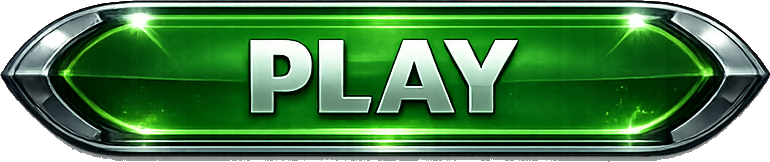
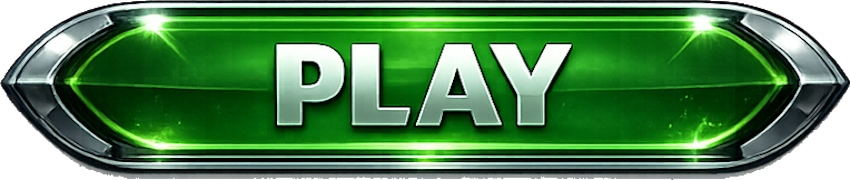
fixed main menu button sizes, added title. added steamId

diff --git a/Assets/_Project/Scripts/UI/MainMenuUI.cs b/Assets/_Project/Scripts/UI/MainMenuUI.cs
@@ -1,6 +1,7 @@
 using Unity.VisualScripting;
 using UnityEngine;
 using UnityEngine.Events;
+using UnityEngine.U2D;
 using UnityEngine.UI;
 
 /// <summary>
@@ -10,6 +11,7 @@ using UnityEngine.UI;
 /// </summary>
 public class MainMenuUI : MonoBehaviour
 {
+    [SerializeField] private Sprite _titleGfx;
     [SerializeField] private Sprite _playSprite;
     [SerializeField] private Sprite _highScoresSprite;
     [SerializeField] private Sprite _quitSprite;
@@ -28,13 +30,13 @@ public class MainMenuUI : MonoBehaviour
         if (_canvas == null)
             _canvas = gameObject.AddComponent<Canvas>();
 
-        _canvas.renderMode   = RenderMode.ScreenSpaceOverlay;
+        _canvas.renderMode = RenderMode.ScreenSpaceOverlay;
         _canvas.sortingOrder = 100;
 
         var scaler = GetComponent<CanvasScaler>();
         if (scaler == null)
             scaler = gameObject.AddComponent<CanvasScaler>();
-        scaler.uiScaleMode         = CanvasScaler.ScaleMode.ScaleWithScreenSize;
+        scaler.uiScaleMode = CanvasScaler.ScaleMode.ScaleWithScreenSize;
         scaler.referenceResolution = new Vector2(1920, 1080);
 
         if (GetComponent<GraphicRaycaster>() == null)
@@ -48,55 +50,79 @@ public class MainMenuUI : MonoBehaviour
         panelImg.color = new Color(0f, 0f, 0f, 0.72f);
 
         var panelRt = _panel.GetComponent<RectTransform>();
-        panelRt.anchorMin       = Vector2.zero;
-        panelRt.anchorMax       = Vector2.one;
-        panelRt.sizeDelta       = Vector2.zero;
+        panelRt.anchorMin = Vector2.zero;
+        panelRt.anchorMax = Vector2.one;
+        panelRt.sizeDelta = Vector2.zero;
         panelRt.anchoredPosition = new Vector2(-160f, 0f);
 
         CreateTitle();
 
         if (_playSprite != null)
         {
-            CreateImageButton(_panel.transform, _playSprite,       new Vector2(0f,  60f), () => GameManager.Instance?.StartGame());
+            CreateImageButton(_panel.transform, _playSprite, new Vector2(0f, 60f), () => GameManager.Instance?.StartGame());
             CreateImageButton(_panel.transform, _highScoresSprite, new Vector2(0f, -60f), () => GameManager.Instance?.ShowHighScores());
-            CreateImageButton(_panel.transform, _quitSprite,       new Vector2(0f,-180f), QuitGame);
+            CreateImageButton(_panel.transform, _quitSprite, new Vector2(0f, -180f), QuitGame);
         }
         else
         {
-            UIStyle.CreateButton(_panel.transform, "Play",        new Vector2(0f,  50f), new Vector2(320f, 80f), () => GameManager.Instance?.StartGame(),     UIStyle.AccentMagenta);
+            UIStyle.CreateButton(_panel.transform, "Play", new Vector2(0f, 50f), new Vector2(320f, 80f), () => GameManager.Instance?.StartGame(), UIStyle.AccentMagenta);
             UIStyle.CreateButton(_panel.transform, "High Scores", new Vector2(0f, -50f), new Vector2(320f, 80f), () => GameManager.Instance?.ShowHighScores(), UIStyle.AccentBlue);
-            UIStyle.CreateButton(_panel.transform, "Quit",        new Vector2(0f,-150f), new Vector2(320f, 80f), QuitGame,                                     UIStyle.AccentRed);
+            UIStyle.CreateButton(_panel.transform, "Quit", new Vector2(0f, -150f), new Vector2(320f, 80f), QuitGame, UIStyle.AccentRed);
         }
 
-        CreateSubtitle();
+        
     }
 
     private void CreateTitle()
     {
-        var go = new GameObject("Title");
-        go.transform.SetParent(_panel.transform, false);
+        if (_titleGfx != null)
+        {
+            var go = new GameObject("Title");
+            
+            go.transform.SetParent(_panel.transform, false);
 
-        var txt = go.AddComponent<Text>();
-        txt.text      = "PURRBRICKS";
-        txt.font      = Resources.GetBuiltinResource<Font>("LegacyRuntime.ttf");
-        txt.fontSize  = 120;
-        txt.fontStyle = FontStyle.Bold;
-        txt.alignment = TextAnchor.MiddleCenter;
-        txt.color     = new Color(1f, 0.35f, 0.82f); // hot pink
+            var img = go.AddComponent<Image>();
+            img.sprite = _titleGfx;
+            img.type = Image.Type.Simple;
+            img.preserveAspect = true;
 
-        var rt = txt.GetComponent<RectTransform>();
-        rt.anchorMin       = new Vector2(0.5f, 0.5f);
-        rt.anchorMax       = new Vector2(0.5f, 0.5f);
-        rt.sizeDelta       = new Vector2(860f, 150f);
-        rt.anchoredPosition = new Vector2(0f, 260f);
+            
+            //float aspect = (float)_titleGfx.texture.width / _titleGfx.texture.height;
+            var rt = go.GetComponent<RectTransform>();
+            rt.anchorMin = new Vector2(0.5f, 0.5f);
+            rt.anchorMax = new Vector2(0.5f, 0.5f);
+            rt.sizeDelta = new Vector2(600f, 500f);
+            rt.anchoredPosition = new Vector2(0f, 260f);
+        }
+        else
+        {
+            var go = new GameObject("Title");
+            go.transform.SetParent(_panel.transform, false);
 
-        var ol  = go.AddComponent<Outline>();
-        ol.effectColor    = new Color(0.6f, 0f, 0.35f, 0.9f);
-        ol.effectDistance = new Vector2(5f, -5f);
+            var txt = go.AddComponent<Text>();
+            txt.text = "PURRBRICKS";
+            txt.font = Resources.GetBuiltinResource<Font>("LegacyRuntime.ttf");
+            txt.fontSize = 120;
+            txt.fontStyle = FontStyle.Bold;
+            txt.alignment = TextAnchor.MiddleCenter;
+            txt.color = new Color(1f, 0.35f, 0.82f); // hot pink
 
-        var sh  = go.AddComponent<Shadow>();
-        sh.effectColor    = new Color(1f, 0.2f, 0.6f, 0.35f);
-        sh.effectDistance = new Vector2(0f, -8f);
+            var rt = txt.GetComponent<RectTransform>();
+            rt.anchorMin = new Vector2(0.5f, 0.5f);
+            rt.anchorMax = new Vector2(0.5f, 0.5f);
+            rt.sizeDelta = new Vector2(860f, 150f);
+            rt.anchoredPosition = new Vector2(0f, 260f);
+
+            var ol = go.AddComponent<Outline>();
+            ol.effectColor = new Color(0.6f, 0f, 0.35f, 0.9f);
+            ol.effectDistance = new Vector2(5f, -5f);
+
+            var sh = go.AddComponent<Shadow>();
+            sh.effectColor = new Color(1f, 0.2f, 0.6f, 0.35f);
+            sh.effectDistance = new Vector2(0f, -8f);
+
+            CreateSubtitle();
+        }
     }
 
     private void CreateSubtitle()
@@ -105,17 +131,17 @@ public class MainMenuUI : MonoBehaviour
         go.transform.SetParent(_panel.transform, false);
 
         var txt = go.AddComponent<Text>();
-        txt.text      = "BREAK EVERY BRICK. CLAIM EVERY PURR.";
-        txt.font      = Resources.GetBuiltinResource<Font>("LegacyRuntime.ttf");
-        txt.fontSize  = 26;
+        txt.text = "BREAK EVERY BRICK. CLAIM EVERY PURR.";
+        txt.font = Resources.GetBuiltinResource<Font>("LegacyRuntime.ttf");
+        txt.fontSize = 26;
         txt.fontStyle = FontStyle.Italic;
         txt.alignment = TextAnchor.MiddleCenter;
-        txt.color     = new Color(0.65f, 0.65f, 0.80f, 0.75f);
+        txt.color = new Color(0.65f, 0.65f, 0.80f, 0.75f);
 
         var rt = txt.GetComponent<RectTransform>();
-        rt.anchorMin       = new Vector2(0.5f, 0.5f);
-        rt.anchorMax       = new Vector2(0.5f, 0.5f);
-        rt.sizeDelta       = new Vector2(800f, 40f);
+        rt.anchorMin = new Vector2(0.5f, 0.5f);
+        rt.anchorMax = new Vector2(0.5f, 0.5f);
+        rt.sizeDelta = new Vector2(800f, 40f);
         rt.anchoredPosition = new Vector2(0f, 190f);
     }
 
@@ -123,30 +149,30 @@ public class MainMenuUI : MonoBehaviour
     {
         if (sprite == null) return;
 
-        var go  = new GameObject("ImageButton");
+        var go = new GameObject("ImageButton");
         go.transform.SetParent(parent, false);
 
-        var img    = go.AddComponent<Image>();
+        var img = go.AddComponent<Image>();
         img.sprite = sprite;
-        img.type   = Image.Type.Simple;
+        img.type = Image.Type.Simple;
         img.preserveAspect = true;
 
         var btn = go.AddComponent<Button>();
         btn.targetGraphic = img;
         btn.onClick.AddListener(onClick);
 
-        var colors               = btn.colors;
-        colors.normalColor       = Color.white;
-        colors.highlightedColor  = new Color(1.15f, 1.15f, 1.15f);
-        colors.pressedColor      = new Color(0.80f, 0.80f, 0.80f);
-        btn.colors               = colors;
+        var colors = btn.colors;
+        colors.normalColor = Color.white;
+        colors.highlightedColor = new Color(1.15f, 1.15f, 1.15f);
+        colors.pressedColor = new Color(0.80f, 0.80f, 0.80f);
+        btn.colors = colors;
 
         // Size: fixed height 90, width from sprite aspect ratio
-        float aspect   = (float)sprite.texture.width / sprite.texture.height;
-        var rt         = go.GetComponent<RectTransform>();
-        rt.anchorMin        = new Vector2(0.5f, 0.5f);
-        rt.anchorMax        = new Vector2(0.5f, 0.5f);
-        rt.sizeDelta        = new Vector2(aspect * 90f, 90f);
+        float aspect = (float)sprite.texture.width / sprite.texture.height;
+        var rt = go.GetComponent<RectTransform>();
+        rt.anchorMin = new Vector2(0.5f, 0.5f);
+        rt.anchorMax = new Vector2(0.5f, 0.5f);
+        rt.sizeDelta = new Vector2(aspect * 70f, 70f);
         rt.anchoredPosition = anchoredPos;
     }
 

diff --git a/Assets/_Project/Scripts/GameManager.cs b/Assets/_Project/Scripts/GameManager.cs
@@ -789,7 +789,7 @@ public class GameManager : MonoBehaviour
         // Dramatic intro: flash, shake, notification, audio
         ScreenEffects.Instance?.FlashWhite(0.90f, 0.70f);
         CameraShake.Instance?.Shake(0.85f, 1.20f);
-        PowerupNotification.Instance?.Show("FURY STRIKE!", new Color(1f, 0.85f, 0.05f), isSpecial: true);
+        PowerupNotification.Instance?.Show("PURRY FURY STRIKE!", new Color(1f, 0.85f, 0.05f), isSpecial: true);
         SfxPlayer.Instance?.PlayFuryStrike();
 
         // Gold burst at each ball position
